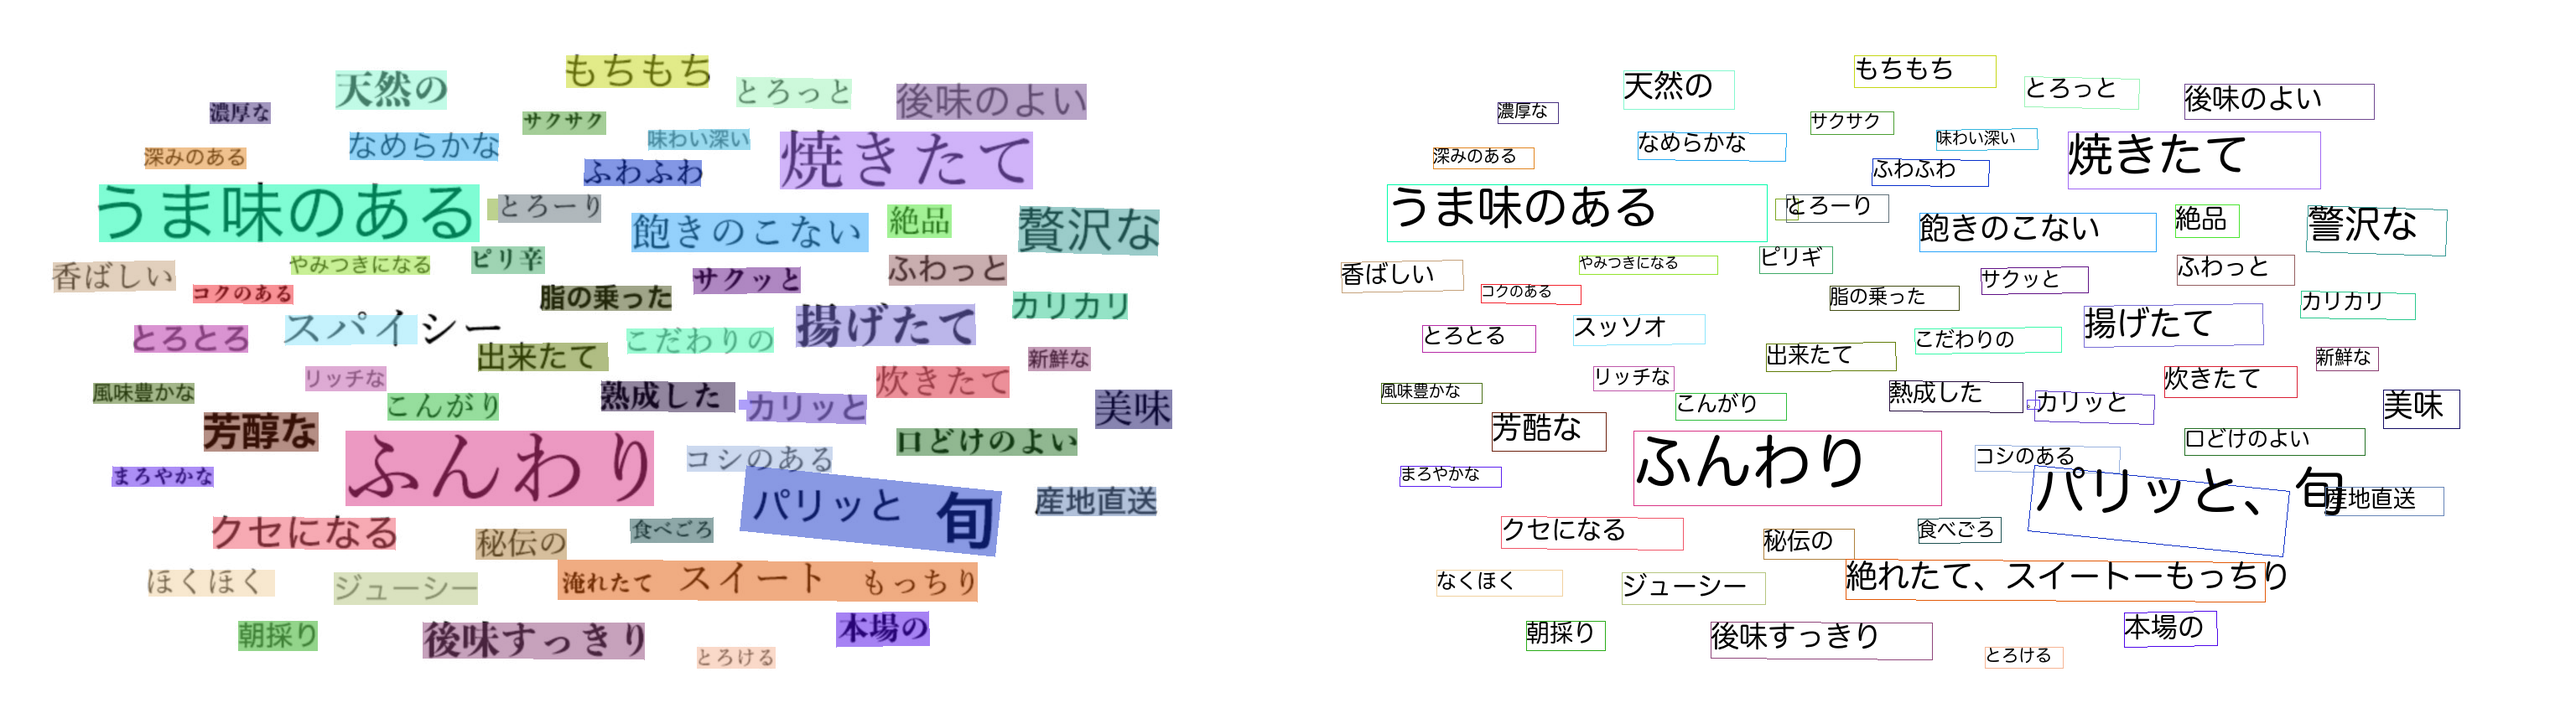
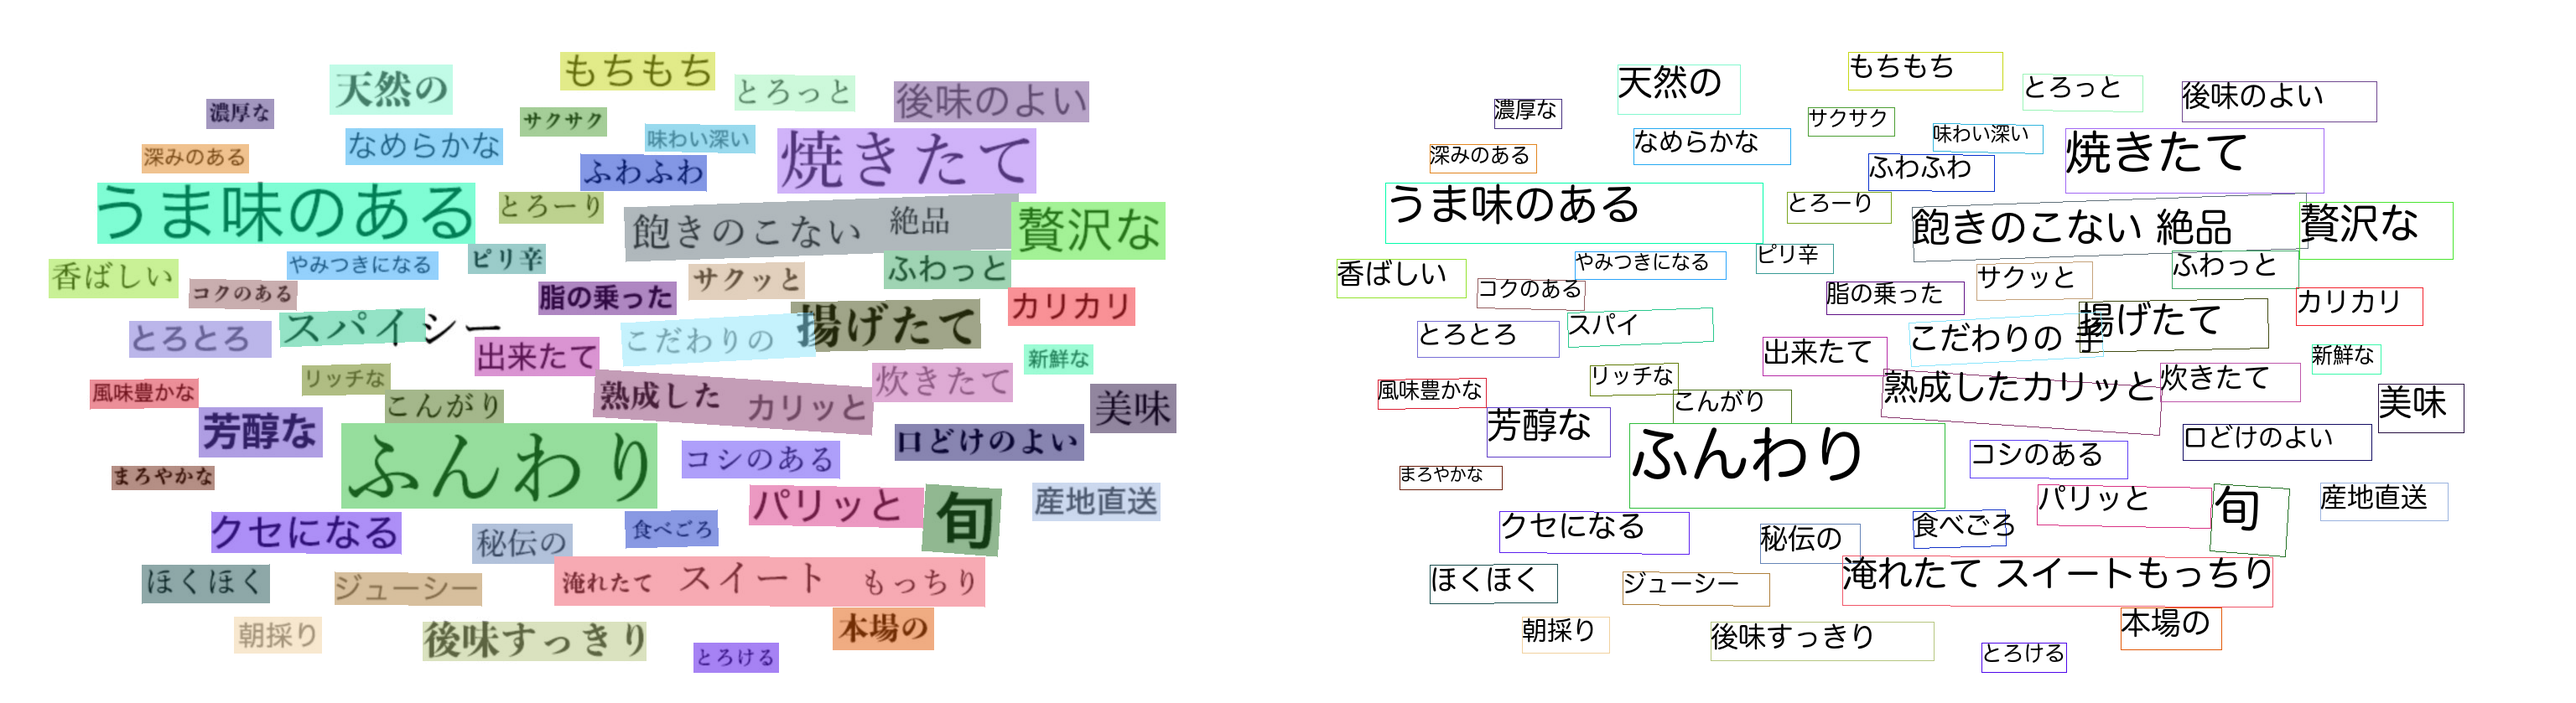
adjust size and readme and output

diff --git a/text_recognition/paddleocr/paddleocr.py b/text_recognition/paddleocr/paddleocr.py
@@ -95,10 +95,10 @@ parser.add_argument(
           '  - min : Resize based on short side')
 )
 parser.add_argument(
-    '-ll', '--det_limit_side_len', type=int, default=1280,
+    '-ll', '--det_limit_side_len', type=int, default=1920,
     help=('You can limit the size of the input image for text detection.'
           'Please set a positive integer.'
-          'Generally set to a multiple of 32, such as 1280.')
+          'Generally set to a multiple of 32, such as 960.')
 )
 args = update_parser(parser)
 
@@ -111,7 +111,7 @@ def get_default_config():
     # params for text detector
     dc['det_algorithm'] = 'DB'
     dc['det_model_path'] = WEIGHT_PATH_DET_CHN
-    dc['det_limit_side_len'] = 0  # set by args, defalt 1280
+    dc['det_limit_side_len'] = 0  # set by args, defalt 1920
     dc['det_limit_type'] = ''  # set by args, defalt max
 
     # DB params

diff --git a/text_recognition/paddleocr/README.md b/text_recognition/paddleocr/README.md
@@ -34,12 +34,16 @@ $ python3 paddleocr.py --input IMAGE_PATH --savepath SAVE_IMAGE_PATH
 $ python3 paddleocr.py -i IMAGE_PATH -s SAVE_IMAGE_PATH
 ```
 
+<br/>
+
 By adding the `--video` option, you can input the video.
 ```bash
 $ python3 paddleocr.py --video VIDEO_PATH --savepath SAVE_VIDEO_PATH
 $ python3 paddleocr.py -v VIDEO_PATH -s SAVE_VIDEO_PATH
 (ex) $ python3 paddleocr.py --video input.mp4 --savepath output.mp4
 ```
+
+<br/>
 
 By adding the `--language` option, you can choose the language.
 ```bash
@@ -64,11 +68,28 @@ $ python3 paddleocr.py --case CASE
 $ python3 paddleocr.py -c CASE
 (ex) $ python3 paddleocr.py --case server
 ```
+
 The prepared language specifications are as follows.
   - mobile (default)
   - server (only Japanese and Chinese have server size models)
 
-<br>
+<br/>
+
+By adding the `--det_limit_type` and `--det_limit_side_len` option, You can limit the size of the input image for text detection.
+`--det_limit_type` is max or min and `--det_limit_side_len` is a positive integer, generally set to a multiple of 32, such as 960.
+The default setting of the parameters is `--det_limit_type`='max', `--det_limit_side_len`=1920. Indicates that the longest side of the network input image cannot exceed 1920, If this value is exceeded, the image will be resized with the same width ratio to ensure that the longest side is det_limit_side_len.
+Set as `--det_limit_type`='min', `--det_limit_side_len`=960 it means that the shortest side of the image is limited to 960.
+```bash
+$ python3 paddleocr.py -lt DET_LIMIT_TYPE -ll DET_LIMIT_SIDE_LEN
+$ python3 paddleocr.py  --det_limit_type DET_LIMIT_TYPE --det_limit_side_len DET_LIMIT_SIDE_LEN
+(ex) $ python3 paddleocr.py -lt max -ll 1920
+(ex) $ python3 paddleocr.py  --det_limit_type min --det_limit_side_len 960
+```
+The prepared language specifications are as follows.
+  - mobile (default)
+  - server (only Japanese and Chinese have server size models)
+
+<br/>
 
 ## About font file
 
